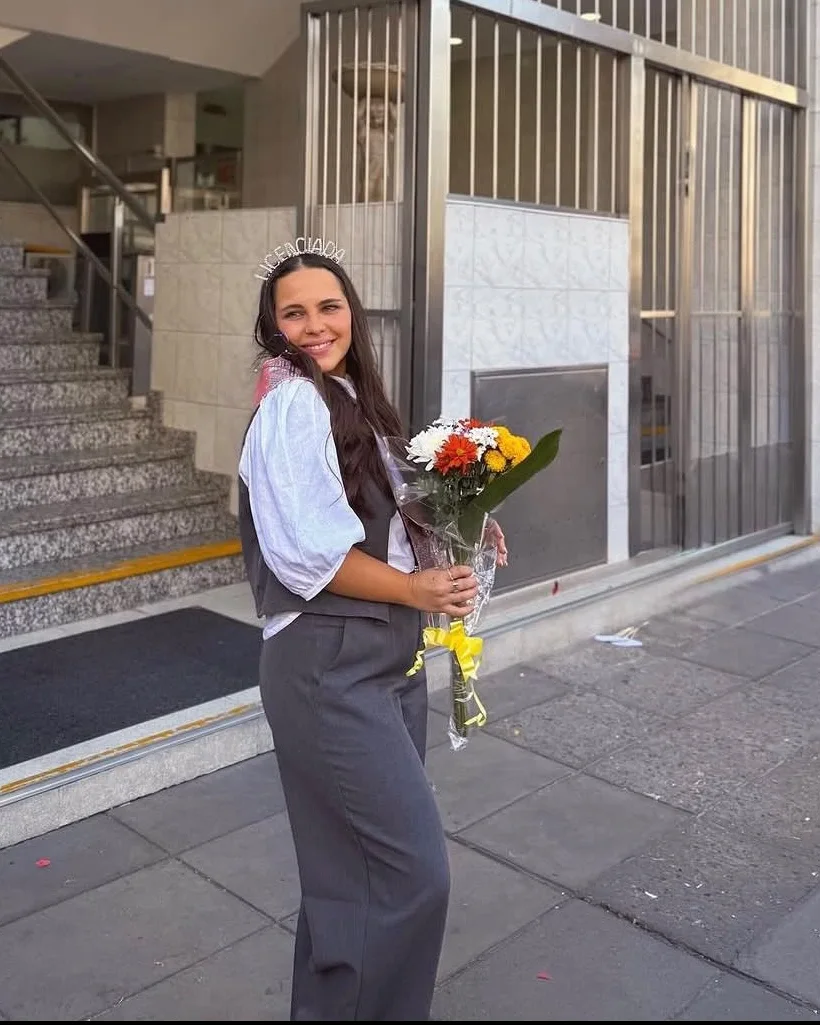
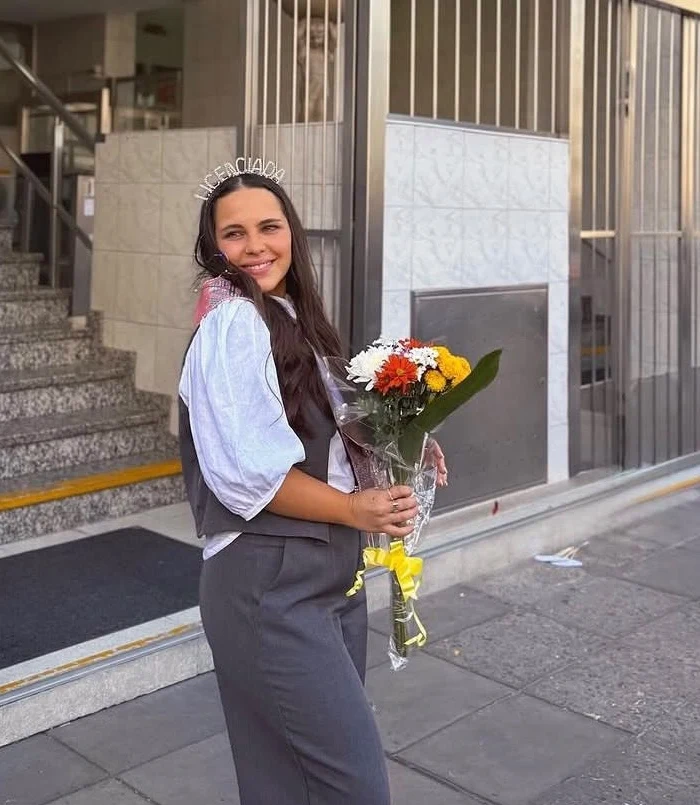
Foto de graduación en el inicio, selfie en Quién soy y collage de trabajo
- El hero usa la foto del día que se recibió (recorte más cerrado para el arco)
  en lugar de la foto del mate, que se elimina.
- "Hola, soy Cande" pasa a la selfie.
- El collage de "Así trabajamos" queda con el consultorio y las herramientas,
  sin taparse los epígrafes.

diff --git a/src/app/globals.css b/src/app/globals.css
@@ -234,7 +234,7 @@ a {
 
 .hero-foto-marco img {
   object-fit: cover;
-  object-position: 50% 30%;
+  object-position: 50% 20%;
 }
 
 .hero-firma {
@@ -338,6 +338,7 @@ a {
   border-radius: 2px;
   aspect-ratio: 4 / 5;
   object-fit: cover;
+  object-position: 72% 40%;
 }
 
 .quien-broche {
@@ -477,15 +478,15 @@ a {
 /* Collage de polaroids, como el "photo dump" de su Instagram. */
 .collage {
   position: relative;
-  aspect-ratio: 1 / 1.3;
-  max-width: 440px;
+  aspect-ratio: 1 / 1;
+  max-width: 460px;
   margin: 36px auto 8px;
 }
 
 .polaroid {
   position: absolute;
   margin: 0;
-  width: 52%;
+  width: 54%;
   padding: 9px 9px 0;
   background: #fff;
   border-radius: 3px;
@@ -495,19 +496,13 @@ a {
 .polaroid-consultorio {
   left: 0;
   top: 0;
-  z-index: 1;
+  z-index: 2;
 }
 
 .polaroid-herramientas {
   right: 0;
-  top: 6%;
-  z-index: 2;
-}
-
-.polaroid-selfie {
-  left: 22%;
-  top: 52%;
-  z-index: 3;
+  top: 22%;
+  z-index: 1;
 }
 
 .polaroid-foto {

diff --git a/src/app/page.tsx b/src/app/page.tsx
@@ -56,10 +56,10 @@ export default function Inicio() {
               <Broche className="quien-broche" />
               <div className="quien-foto-papel">
                 <Image
-                  src={ruta("/img/candela-graduacion.webp")}
-                  alt="Candela el día que se recibió de Licenciada en Nutrición, con una vincha que dice Licenciada y un ramo de flores"
-                  width={820}
-                  height={1025}
+                  src={ruta("/img/candela-selfie.webp")}
+                  alt="Candela sonriendo en una selfie"
+                  width={800}
+                  height={1067}
                   sizes="(min-width: 900px) 30vw, 78vw"
                 />
               </div>

diff --git a/src/components/Hero.tsx b/src/components/Hero.tsx
@@ -20,8 +20,8 @@ export function Hero() {
           transition={{ duration: 1.1, ease: suave }}
         >
           <Image
-            src={ruta("/img/candela-mate.webp")}
-            alt="Candela sonriendo en la mesa, con su mate y platos de comidas caseras alrededor"
+            src={ruta("/img/candela-graduacion.webp")}
+            alt="Candela el día que se recibió de Licenciada en Nutrición, con una vincha que dice Licenciada y un ramo de flores"
             fill
             priority
             sizes="(min-width: 900px) 44vw, 92vw"

diff --git a/src/components/Collage.tsx b/src/components/Collage.tsx
@@ -21,14 +21,6 @@ const FOTOS = [
     foco: "35% 30%",
     giro: 4,
   },
-  {
-    id: "selfie",
-    src: "/img/trabajo-selfie.webp",
-    alt: "Candela sonriendo en una selfie",
-    epigrafe: "¡Te espero!",
-    foco: "70% 45%",
-    giro: -2,
-  },
 ];
 
 /** Polaroids que caen sobre la mesa una vez, cuando la sección entra en pantalla. */
